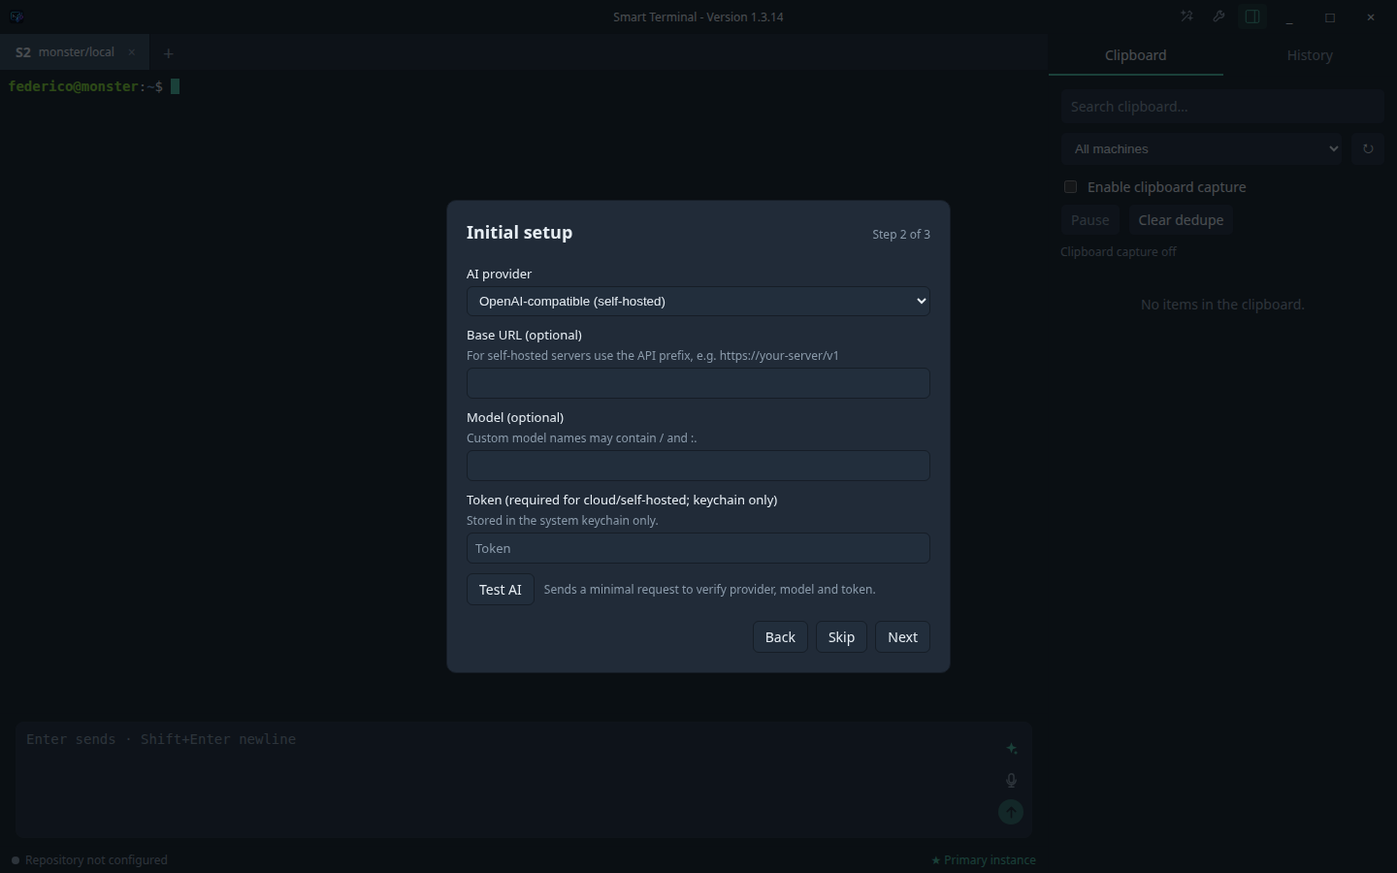
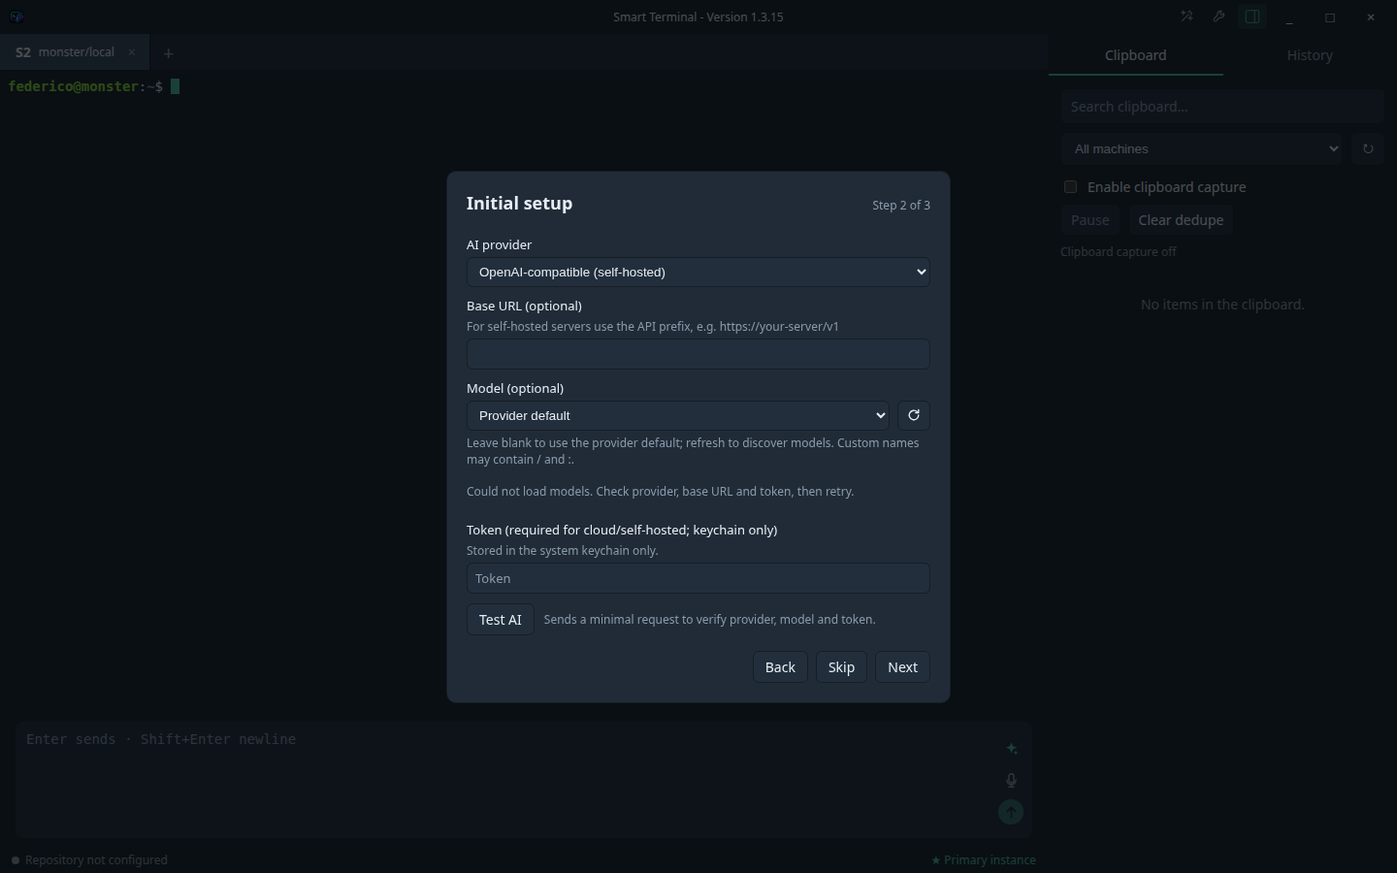
feat(ai,stt): fill AI panes, add clipboard/model/provider/STT choices (M27-T05)
Final M27 pass: assistant panes fill their height with a single answer toolbar row, last action, clipboard placeholder, AI model discovery/presets and STT specific-provider settings; adds targeted STT/app-config/onboarding tests, refreshed screenshots and docs 12/14/15/17/19/36 plus the M27 audit. 489 tests, AI/STT/settings smokes and dual-theme layout green.

Changed region(s): [[0.3125, 0.56, 0.6875, 0.8089], [0.3125, 0.1867, 0.6875, 0.5289]]

diff --git a/apps/desktop/src/main/stt-service.spec.ts b/apps/desktop/src/main/stt-service.spec.ts
@@ -65,6 +65,31 @@ describe('SttService', () => {
     expect(secrets.secrets.has).not.toHaveBeenCalledWith('stt:cloud');
   });
 
+  it('uses the specific provider URL and stt:cloud token for transcription', async () => {
+    const secrets = stubStores(config({ sttProvider: 'cloud', sttUseAiProvider: false, sttApiProvider: 'deepseek', sttBaseUrl: 'https://specific.example/v1', aiBaseUrl: 'https://ignored.example/v1', sttCommand: undefined }), 'cloud-token');
+    const fetcher = vi.fn(async (url: string | URL | Request, init?: RequestInit) => {
+      expect(String(url)).toBe('https://specific.example/v1/audio/transcriptions');
+      expect(new Headers(init?.headers).get('authorization')).toBe('Bearer cloud-token');
+      return new Response(JSON.stringify({ text: 'specific' }), { status: 200 });
+    });
+    const service = new SttService({ ...secrets, fetch: fetcher as typeof fetch });
+    expect(service.status()).toMatchObject({ configured: true, hasToken: true });
+    await expect(service.transcribe({ audio: audio(), mimeType: 'audio/webm' })).resolves.toMatchObject({ text: 'specific', skipped: false });
+    expect(secrets.secrets.has).toHaveBeenCalledWith('stt:cloud');
+    expect(secrets.secrets.has).not.toHaveBeenCalledWith('ai:deepseek');
+  });
+
+  it('resolves a specific provider preset and an entered refresh token before saving', async () => {
+    const configOverride = config({ sttProvider: 'cloud', sttUseAiProvider: false, sttApiProvider: 'deepseek', sttBaseUrl: undefined, sttCommand: undefined });
+    const fetcher = vi.fn(async (url: string | URL | Request, init?: RequestInit) => {
+      expect(String(url)).toBe('https://api.deepseek.com/v1/models');
+      expect(new Headers(init?.headers).get('authorization')).toBe('Bearer typed-token');
+      return new Response(JSON.stringify({ data: [{ id: 'whisper-large-v3', audio_workflows: ['transcribe'] }] }), { status: 200 });
+    });
+    const service = new SttService({ ...stubStores(configOverride, null), fetch: fetcher as typeof fetch });
+    await expect(service.models({ config: configOverride, sttToken: 'typed-token' })).resolves.toEqual([{ id: 'whisper-large-v3', loaded: false }]);
+  });
+
   it('lists only models that advertise the transcribe workflow', async () => {
     const fetcher = vi.fn(async (url: string | URL | Request, init?: RequestInit) => {
       expect(String(url)).toBe('https://llm.example/v1/models');

diff --git a/apps/desktop/src/main/app-config.spec.ts b/apps/desktop/src/main/app-config.spec.ts
@@ -21,6 +21,7 @@ const full: AppConfig = {
   aiModel: 'gpt-x',
   sttProvider: 'local',
   sttUseAiProvider: true,
+  sttApiProvider: 'deepseek',
   sttModel: 'whisper-1',
   sttBaseUrl: 'https://stt.example.com/v1',
   sttResponseFormat: 'verbose_json',
@@ -40,6 +41,7 @@ describe('app config', () => {
     expect(parseAppConfig(serializeAppConfig(full))).toEqual(full);
     expect(parseAppConfig(serializeAppConfig(minimal))).toEqual({ ...minimal, terminalTheme: 'dark' });
     expect(serializeAppConfig(full)).toContain('stt_use_ai_provider: true');
+    expect(serializeAppConfig(full)).toContain('stt_api_provider: deepseek');
     expect(serializeAppConfig(full)).toContain('schema_version: 1');
   });
 
@@ -55,6 +57,7 @@ describe('app config', () => {
     ['unknown field', '---\nschema_version: 1\nmachine_name: a\ndata_repo_path: /d\nai_provider: none\nstt_provider: none\napi_key: sk-123\n---\n'],
     ['relative path', '---\nschema_version: 1\nmachine_name: a\ndata_repo_path: rel/d\nai_provider: none\nstt_provider: none\n---\n'],
     ['bad provider', '---\nschema_version: 1\nmachine_name: a\ndata_repo_path: /d\nai_provider: evil\nstt_provider: none\n---\n'],
+    ['bad stt api provider', '---\nschema_version: 1\nmachine_name: a\ndata_repo_path: /d\nai_provider: none\nstt_provider: cloud\nstt_api_provider: anthropic\n---\n'],
     ['invalid terminal theme', '---\nschema_version: 1\nmachine_name: a\ndata_repo_path: /d\nai_provider: none\nstt_provider: none\nterminal_theme: system\n---\n'],
     ['invalid terminal font', '---\nschema_version: 1\nmachine_name: a\ndata_repo_path: /d\nai_provider: none\nstt_provider: none\nterminal_font: "url(javascript:evil)"\n---\n'],
     ['url with credentials', '---\nschema_version: 1\nmachine_name: a\ndata_repo_path: /d\nai_provider: openai\nai_base_url: "https://u:p@x.com"\nstt_provider: none\n---\n'],

diff --git a/apps/desktop/src/main/onboarding-service.spec.ts b/apps/desktop/src/main/onboarding-service.spec.ts
@@ -166,6 +166,16 @@ describe('OnboardingService', () => {
     expect(fs.existsSync(store.filePath)).toBe(false);
   });
 
+  it('validates and persists a specific STT provider with its token', () => {
+    const { service, store, secrets } = setup();
+    expect(service.validate(valid({ sttProvider: 'cloud', sttUseAiProvider: false, sttApiProvider: 'anthropic' as never })).errors).toHaveProperty('sttApiProvider');
+    const config = valid({ sttProvider: 'cloud', sttUseAiProvider: false, sttApiProvider: 'deepseek', sttBaseUrl: 'https://api.deepseek.com/v1', sttModel: 'whisper-1' });
+    expect(service.validate(config).ok).toBe(true);
+    expect(service.save({ config, sttToken: 'stt-secret' }).ok).toBe(true);
+    expect(store.load()).toMatchObject({ status: 'valid', config: { sttApiProvider: 'deepseek', sttBaseUrl: 'https://api.deepseek.com/v1', sttModel: 'whisper-1' } });
+    expect(secrets.get('stt:cloud')).toBe('stt-secret');
+  });
+
   it('logout revokes a token', () => {
     const { service, secrets } = setup();
     service.save({ config: valid(), aiToken: 'tok' });

diff --git a/apps/desktop/src/main/app-config.ts b/apps/desktop/src/main/app-config.ts
@@ -56,6 +56,7 @@ const KNOWN_KEYS = [
   'ai_model',
   'stt_provider',
   'stt_use_ai_provider',
+  'stt_api_provider',
   'stt_model',
   'stt_base_url',
   'stt_response_format',

diff --git a/docs/12 - User manual.md b/docs/12 - User manual.md
@@ -34,7 +34,7 @@ At first launch, the wizard offers three steps:
 
 1. **Data repository and machine** — choose the data clone/repository path and a machine name. If setup is skipped, a default local repository is used; the terminal remains usable.
 2. **AI provider and token** — choose Anthropic, OpenAI, or OpenAI-compatible, optionally set the base URL/model, and save the token in the system keychain. On Linux, if the backend is `basic_text` or unavailable, the token is kept in memory for the session only: it is never written in plaintext.
-3. **STT and microphone** — choose local or cloud STT, configure the absolute local command or cloud provider, check the microphone, and grant permission. This step can be skipped.
+3. **STT and microphone** — choose the shared AI provider, a specific OpenAI-compatible provider, a local command, or none; configure as needed, check the microphone, and grant permission. This step can be skipped.
 
 Non-secret configuration is in `userData/config/config.md` (typically under `~/.config/...` on Linux, `~/Library/Application Support/...` on macOS, and `%APPDATA%/...` on Windows). It is not synchronized. Tokens are managed by main through `safeStorage`/keychain and are not placed in Markdown; without a secure keyring there is no plaintext fallback. After first-run onboarding, the header wrench opens Settings with **Repository**, **AI**, **STT**, and **Appearance** tabs; the adjacent AI Actions wand opens its own manager modal. See the [post-install onboarding guide](14%20-%20Post-install%20onboarding.md) for title, menu, and zoom behavior.
 
@@ -61,7 +61,11 @@ Each tab has an independent draft. **Enter** deliberately sends the text to the 
 
 ![AI actions modal with an action select and editable System and User prompts](assets/screenshots/09-ai-actions.png)
 
-The composer AI trigger shows only sparkles and has the accessible name **AI actions**. It opens the separate AI Assistant modal, sized to 90% of the window, with a compact header and two equal panes: the left pane contains the action select, editable System and User prompts, and **Send**; the right pane contains the answer with **Rendered**/**Raw** view controls. **Use** inserts the selected answer text (rendered or raw, depending on the view) or the full answer when there is no selection. It never submits the composer or executes anything. The header wand opens the AI Actions manager, which is 10% taller than before. It lists built-in and custom actions, shows `BUILT-IN:n CUSTOM:n` in its bordered footer, and supports adding actions and deleting custom actions after confirmation. There is no bulk Reset; built-in templates can be reset per action. Templates can include terminal context such as the on-demand console excerpt. See [AI prompt templates and storage](36%20-%20AI%20prompt%20templates%20and%20storage.md) for limits and privacy details.
+The composer AI trigger shows only sparkles and has the accessible name **AI actions**. It opens the separate AI Assistant modal, sized to 90% of the window. System and User prompts fill the left pane equally (50/50); the Answer pane fills the right side. Its one-row **Answer** label and **Rendered**/**Raw** toolbar control the view. The last selected action is remembered locally. The action selector also offers an optional model select with **Refresh**; **Provider default** omits a model, discovered models are selectable, and **Custom** accepts a model name. Claude Platform and DeepSeek Platform presets fill the provider base URL. **Use** inserts the selected answer text (rendered or raw, depending on the view) or the full answer when there is no selection. It never submits the composer or executes anything. The header wand opens the AI Actions manager, which is 10% taller than before. It lists built-in and custom actions, shows `BUILT-IN:n CUSTOM:n` in its bordered footer, and supports adding actions and deleting custom actions after confirmation. There is no bulk Reset; built-in templates can be reset per action. Templates can include terminal context such as the on-demand console excerpt and `{{clipboard}}` (system clipboard text at compose time, capped at 16,000 characters). See [AI prompt templates and storage](36%20-%20AI%20prompt%20templates%20and%20storage.md) for limits and privacy details.
+
+### AI/STT provider settings
+
+In Settings → AI, refresh the optional model list or use **Provider default**/**Custom**. Claude Platform and DeepSeek Platform presets fill their base URLs. Settings → STT offers the shared AI provider, a specific OpenAI-compatible provider (OpenAI, DeepSeek, or compatible; base URL, keychain token, and refreshed model list), a local command, or **None**. Both cloud choices support model refresh; the specific provider's token is managed through the keychain.
 
 ### Microphone
 

diff --git a/docs/43 - M27 verification audit.md b/docs/43 - M27 verification audit.md
@@ -1,0 +1,53 @@
+---
+title: "M27 verification audit"
+type: audit
+project: smart-terminal
+created: 2026-10-25
+---
+# M27 verification audit
+
+Final audit for milestone M27 (AI layout, clipboard placeholder, provider presets and STT provider choice). Range: v1.3.15 release baseline (`a58213b`) → M27 close; 32 files.
+
+## Deliverables
+
+| Task | Outcome |
+| --- | --- |
+| T01 | System and User prompts split the left pane height 50/50, the Markdown answer fills the right pane, the Answer label and Rendered/Raw toggles share one row, and the last used action is persisted best-effort and preselected (per-session kept prompts still win). |
+| T02 | `{{clipboard}}` is resolved in the main process at compose time (string or promise), NUL/CR stripped, capped at 16 000 characters with a truncation marker, never logged or persisted; failures degrade to empty. |
+| T03 | Claude Platform and DeepSeek Platform presets fill base URLs automatically; `ai:models` lists provider models (Anthropic headers or OpenAI bearer, entered token wins); Settings/AI offers Provider default, discovered models and a Custom fallback with refresh. |
+| T04 | Settings/STT offers same-AI, specific OpenAI-compatible (provider, base URL, keychain token), local command and none; `stt_api_provider` persists; model refresh accepts the unsaved config/token; models/status/transcription resolve shared or specific base URLs and tokens through a reusable `ProviderFields` component. |
+| T05 | Tests, smokes, screenshots and docs 12/14/15/17/19/36 updated; this audit. |
+
+## Verification matrix
+
+| Gate | Result |
+| --- | --- |
+| `npm run lint`, `npx tsc -p tsconfig.json --noEmit` | pass |
+| `npx vitest run` | 52 files, 489 tests pass |
+| `npm run build` | pass |
+| Documentation links / consistency / installation guides | pass |
+| `npm run test:layout` | 4 OK (dark/light × 1440×900/1024×700) |
+| Screenshots | 13/13 OK |
+| AI smoke | sparkle trigger, clipboard-safe prompts, rendered/raw, Use, no auto-send, sensitive block — `ok:true` |
+| AI setup smoke | DeepSeek preset URL, model refresh/selection/persistence, token masking — `ok:true` |
+| STT setup smoke | shared/specific fields, DeepSeek preset, specific model refresh, restore shared, recording/transcription — `ok:true` |
+| STT smoke, settings smoke | `ok:true` |
+
+## Behaviour and safety notes
+
+- Clipboard content is read in main only when composing prompts; it is capped, never persisted and never returned separately. Because it becomes part of the rendered prompts, the existing sensitive-text gate can block an action when the clipboard contains secrets (documented).
+- Model discovery uses the entered token only for the explicit refresh/test path, otherwise the keychain token; errors expose status codes only, never bodies or headers. A saved custom model survives refresh via the Custom option.
+- STT specific mode stores its token under `stt:cloud` and never reads the AI token; shared mode keeps using the AI provider token and still requires an OpenAI-compatible AI provider. Local and none paths are unchanged.
+- Provider presets only fill the base URL on selection; self-hosted/custom URLs remain editable.
+- Layout is pure presentation: no PTY/IPC change, prompt limits and no-submit semantics preserved.
+
+## Independent review
+
+Verdict: **OK with notes**, no findings. The reviewer checked guarded clipboard reads, sensitive gating, best-effort last-action storage, provider-specific model discovery, STT specific token/base resolution and doc accuracy. Evidence limits: the reviewer inspected the supplied diff/source and did not rerun the gates.
+
+## Manual / residual
+
+- Real clipboard behaviour across OSes (text formats, very large content) and real provider model lists (Claude/DeepSeek/OpenAI) remain manual; model endpoints can legitimately return an empty list, in which case the UI keeps the custom/default value.
+- Specific-provider STT transcription against a real OpenAI-compatible server and the exact DeepSeek audio support are environment-dependent: DeepSeek's chat models are not transcription models, so users must point STT at an audio-capable endpoint.
+- Rendered-selection `Use`, screen-reader navigation and zoom checks beyond the automated set remain manual.
+- These M27 changes are on `main` after v1.3.15 and would ship with the next release.

diff --git a/docs/36 - AI prompt templates and storage.md b/docs/36 - AI prompt templates and storage.md
@@ -29,6 +29,7 @@ Templates are rendered in one substitution pass. Recognized placeholders are rep
 | `{{action}}` | Action title |
 | `{{intent}}` | Action description (custom action intent) |
 | `{{description}}` | Action description |
+| `{{clipboard}}` | System clipboard contents read by the main process at compose time; capped at 16,000 characters (longer values are truncated). It is not persisted by this feature. The value is read from the system clipboard when composing, not from clipboard history.
 
 Console text is collected on demand from the active xterm buffer: the last 200 lines, further bounded to 8000 characters. It is not persisted; provider submission still requires the user's explicit Send action.
 
@@ -46,4 +47,4 @@ Five defaults are defined in `packages/ai/src/action-templates.ts`; rendered by 
 
 ## Editing and security
 
-The AI Actions manager is opened from the header wand in its own modal; it is separate from the composer AI assistant modal. Its bordered list footer shows `BUILT-IN:n CUSTOM:n` counts. Built-in templates can be reset per action. Custom actions can be deleted only after confirmation; bulk Reset has been removed. The AI Actions manager and AI Assistant are separate modal surfaces. In the assistant, an action select composes two editable prompts; the answer is shown as rendered Markdown with a Raw view escape hatch. Editing the System prompt is supported; it is not an immutable system instruction. Main blocks detected secrets in either submitted prompt before provider access. This UI change does not alter prompt or answer persistence: neither is persisted or logged by this feature. A secret-filter match blocks the call; filtering should not be treated as a guarantee of detection for every secret format.
+The AI Assistant remembers the last selected action in local storage only. The AI Actions manager is opened from the header wand in its own modal; it is separate from the composer AI assistant modal. Its bordered list footer shows `BUILT-IN:n CUSTOM:n` counts. Built-in templates can be reset per action. Custom actions can be deleted only after confirmation; bulk Reset has been removed. The AI Actions manager and AI Assistant are separate modal surfaces. In the assistant, an action select composes two editable prompts; the answer is shown as rendered Markdown with a Raw view escape hatch. Editing the System prompt is supported; it is not an immutable system instruction. Main blocks detected secrets in either submitted prompt before provider access. This UI change does not alter prompt or answer persistence: neither is persisted or logged by this feature. A secret-filter match blocks the call; filtering should not be treated as a guarantee of detection for every secret format.

diff --git a/docs/14 - Post-install onboarding.md b/docs/14 - Post-install onboarding.md
@@ -46,7 +46,7 @@ Choose **Next** to save these values and continue. Choose **Use defaults** to us
 
 See the [AI provider setup guide](19%20-%20AI%20provider%20setup%20guide.md).
 
-The exact fields are **AI provider**, **Base URL (optional)**, **Model (optional)**, and **Token (optional, keychain only)**. Choose **none** to disable AI, or choose **anthropic**, **openai**, or **openai-compatible** for typo correction. Base URL and model let you customize a compatible endpoint; the token is stored in the operating system keychain (Electron `safeStorage`), never in Markdown or the synchronized repository.
+Choose an AI provider and optionally configure its base URL, model, and token (keychain only). The model selector supports **Provider default**, discovered models via **Refresh**, and **Custom** for a manual model name. Claude Platform and DeepSeek Platform presets fill their base URLs. The token is stored in the operating system keychain (Electron `safeStorage`), never in Markdown or the synchronized repository.
 
 Use **Skip** to continue without AI. AI correction is explicit and reviewable; it is not required for command entry. If the keychain is unavailable, the wizard shows **Keychain unavailable: the token will only be kept in memory.** Smart Terminal does not write a plaintext token. Configure a working keyring before expecting cloud AI to survive a restart.
 
@@ -54,7 +54,7 @@ Use **Skip** to continue without AI. AI correction is explicit and reviewable; i
 
 For permissions, local commands, cloud tokens and troubleshooting, see the [STT setup guide](17%20-%20STT%20setup%20guide.md).
 
-The STT tab is intentionally minimal: **Use the same AI provider (OpenAI-compatible)**, a **Model** select, an **EN/IT** language select, and **TEST**. It reuses the AI base URL and token. TEST saves the current values, records for about two seconds, transcribes, and discards the audio. Configure and test AI first; see the [STT setup guide](17%20-%20STT%20setup%20guide.md). A denied or unavailable microphone does not affect the terminal.
+Choose among **Use same AI provider**, **Use Specific Provider (OpenAI-compatible)**, **Local command**, and **None**. The specific cloud choice configures provider (OpenAI, DeepSeek, or OpenAI-compatible), base URL, keychain token, and model; refresh discovers models. Shared and specific cloud modes both offer model refresh. A denied or unavailable microphone does not affect the terminal.
 
 ### Later launches: Settings
 

diff --git a/docs/15 - Visual baseline.md b/docs/15 - Visual baseline.md
@@ -66,7 +66,7 @@ Dark remains the pixel baseline; all exact dark values above are unchanged. Ligh
 
 ## Settings dialog
 
-The edit-mode settings dialog is `min(640px, 92vw)` wide and `min(744px, 90vh)` tall; its inner body scrolls while the footer remains pinned. Initial onboarding retains its 520 px width and 90vh maximum height. Dark/light theme checks are unchanged. The AI Actions manager is a separate header-launched modal, approximately 1000×792 px and capped at 90vh; its captured manager view is `docs/assets/screenshots/12-ai-actions-manager.png`. The AI Assistant modal is approximately 90vw×90vh, with a compact header and balanced 50/50 prompt and answer panes. Settings remains 640×744 px (`min(640px, 92vw)` by `min(744px, 90vh)`). Assistant answers have Rendered/Raw views; answer typography uses the same shared token palette.
+The edit-mode settings dialog is `min(640px, 92vw)` wide and `min(744px, 90vh)` tall; its inner body scrolls while the footer remains pinned. Initial onboarding retains its 520 px width and 90vh maximum height. Dark/light theme checks are unchanged. The AI Actions manager is a separate header-launched modal, approximately 1000×792 px and capped at 90vh; its captured manager view is `docs/assets/screenshots/12-ai-actions-manager.png`. The AI Assistant modal is approximately 90vw×90vh. System/User prompts share the left pane at 50/50; Answer fills the right pane. The Answer label and Rendered/Raw toolbar occupy one row. Settings remains 640×744 px (`min(640px, 92vw)` by `min(744px, 90vh)`). Settings AI includes a model select and refresh control; STT's specific-provider block exposes provider, base URL, masked token, and model controls. Screenshots were refreshed for this layout.
 
 ## Zoom and terminal keyboard behavior
 

diff --git a/docs/19 - AI provider setup guide.md b/docs/19 - AI provider setup guide.md
@@ -24,7 +24,7 @@ AI actions are optional. In the reviewable modal, select an action and edit both
 | OpenAI | Provider, optional model, API token. |
 | OpenAI-compatible | Provider, base URL, model, API token. The endpoint must expose an OpenAI-compatible chat-completions API. |
 
-The base URL must be `http(s)`, without credentials or query parameters. The model name is provider-specific.
+The base URL must be `http(s)`, without credentials or query parameters. The model name is provider-specific. The model selector can refresh/discover chat models; **Provider default** omits a model, while **Custom** allows a manually entered model when discovery is unavailable or incomplete. Claude Platform and DeepSeek Platform presets auto-fill their base URLs.
 
 ## Self-hosted OpenAI-compatible / Unsloth
 
@@ -40,7 +40,7 @@ The `/v1` suffix is part of the base URL. These are configuration examples; this
 
 Enter the token only in the token field; **never** in the data repository or a Markdown file. The main process stores it through the system keychain/Electron `safeStorage`. On Linux, if the backend is `basic_text`, `unknown`, or encryption is unavailable, the token is kept in memory for the current session only and a warning is displayed. Configure a secure keyring before relying on cloud AI after restart.
 
-The renderer never receives the token; it only sees whether a token is present. Logout/revocation removes it.
+The renderer never receives the token; it only sees whether a token is present. Logout/revocation removes it. Tokens remain keychain-only; do not place them in templates, URLs, or Markdown.
 
 Cloud STT can optionally reuse this AI base URL and token via **Use same AI provider (OpenAI-compatible)** in the STT tab.
 

diff --git a/docs/17 - STT setup guide.md b/docs/17 - STT setup guide.md
@@ -8,7 +8,7 @@ created: 2026-10-23
 
 # STT setup guide
 
-Smart Terminal uses the OpenAI-compatible AI provider configured in the **AI** tab for speech-to-text. Audio is held in memory only: recordings are never written to the data repository or userData.
+STT can use the AI provider configured in **AI**, a separately configured OpenAI-compatible provider, a local command, or be disabled. Audio is held in memory only: recordings are never written to the data repository or userData.
 
 ## Configure
 
@@ -19,6 +19,12 @@ Open **Settings** with the gear, select the **STT** tab, and configure:
 - **Language:** `EN (English)` or `IT (Italiano)`.
 
 The base URL and token are taken from the AI tab, so configure and test AI first. Use an `openai` or `openai-compatible` AI provider. AI settings, including the token, remain in the main process/keychain and are not copied into Markdown or logs.
+
+## Specific cloud provider
+
+In Settings → **STT**, choose **Use Specific Provider (OpenAI-compatible)**, then select OpenAI, DeepSeek, or OpenAI-compatible and enter its base URL, token, and model. For example, DeepSeek's documented example base URL is `https://api.deepseek.com/v1`; OpenAI or a self-hosted OpenAI-compatible endpoint can also be configured. Enter tokens only in the token field: they are handled through the system keychain, never Markdown. Use model refresh to discover available models. Exact endpoint compatibility depends on the service; verify it with TEST.
+
+Alternatively, choose **Use same AI provider** to retain the existing shared AI URL and key. **Local command** configures a local transcription command; **None** disables STT. The shared-provider mode remains unchanged.
 
 ## TEST
 
